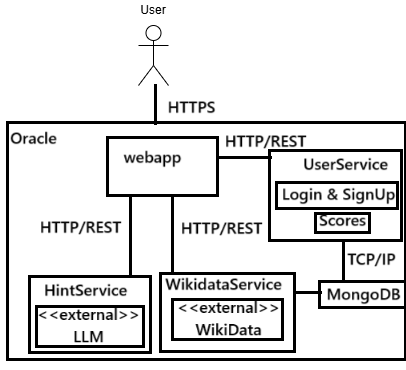
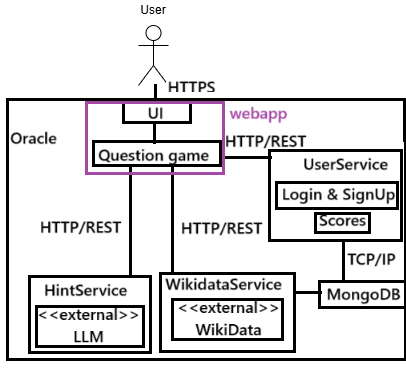
Updates

Changed region(s): [[0.0, 0.2081, 1.0, 0.5351]]

diff --git a/index.html b/index.html
@@ -1282,6 +1282,42 @@ The webapp provides the user interface, contains the logic of the games and comm
 <img src="./images/5_level_3.png" alt="Level 3">
 </div>
 </div>
+<div class="ulist">
+<ul>
+<li>
+<p>Motivation **</p>
+</li>
+</ul>
+</div>
+<div class="paragraph">
+<p>This level gives a more detailed and clarification specially for the webapp, as it can be considered the most complex element.</p>
+</div>
+<div class="ulist">
+<ul>
+<li>
+<p>Contained Building Blocks **</p>
+<div class="ulist">
+<ul>
+<li>
+<p>The services we mentioned before.</p>
+</li>
+<li>
+<p>The UI (User Interface) forms part of the webapp, and it&#8217;s going to the intermediate between the User and the logic of our system.</p>
+</li>
+<li>
+<p>The question game is in charge of managing all the logic regarding this game, and will make requests to the services. For example,
+for getting hints to the HintService&#8230;&#8203;</p>
+</li>
+</ul>
+</div>
+</li>
+<li>
+<p>Important Interfaces **
+The webapp follows a MVC architecture, so we have the view with controllers that manages the requests made by the User, and the Question game
+is divided into Services (the real logic of the game), Repositories (they are in charged of making requests to the UserService, HintService and WikidataService) and Entities.</p>
+</li>
+</ul>
+</div>
 <div style="page-break-after: always;"></div>
 </div>
 </div>
